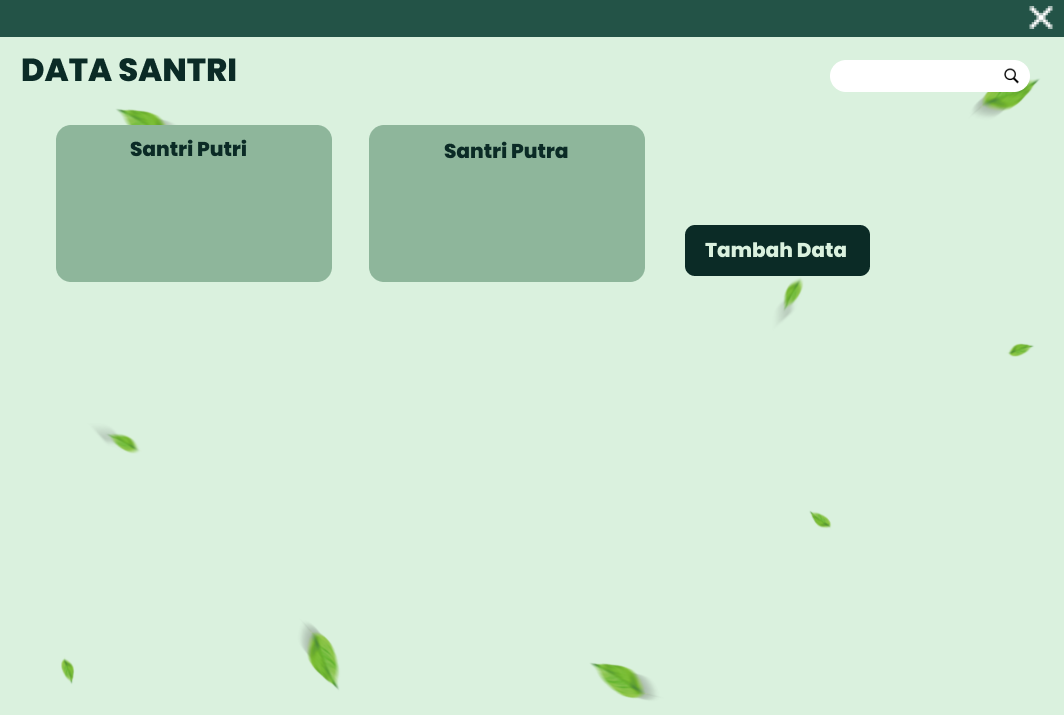
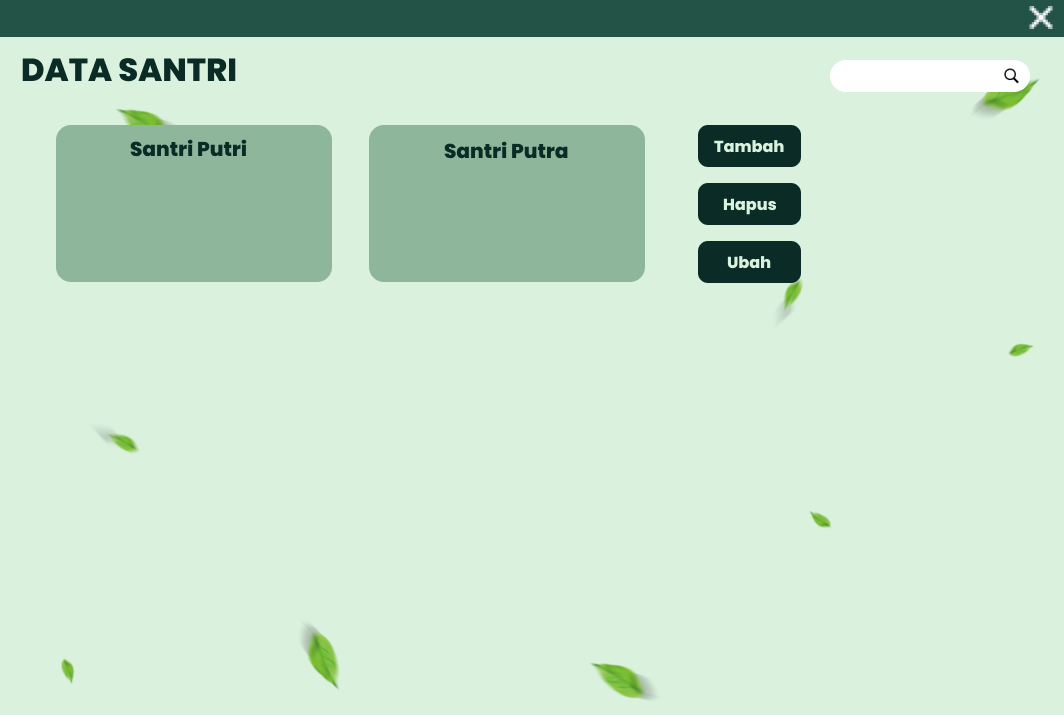
cialinSimastren

Changed region(s): [[0.6203, 0.1538, 0.8374, 0.4]]

diff --git a/src/JFrame/DataSantri.java b/src/JFrame/DataSantri.java
@@ -3,6 +3,10 @@
  * Click nbfs://nbhost/SystemFileSystem/Templates/GUIForms/JFrame.java to edit this template
  */
 package JFrame;
+//import kelas.user;
+import javax.swing.table.DefaultTableModel;
+import java.sql.ResultSet;
+import java.sql.SQLException;
 
 /**
  *
@@ -26,23 +30,20 @@ public class DataSantri extends javax.swing.JFrame {
     // <editor-fold defaultstate="collapsed" desc="Generated Code">//GEN-BEGIN:initComponents
     private void initComponents() {
 
-        santri_putra = new javax.swing.JLabel();
-        santri_putri = new javax.swing.JLabel();
         jScrollPane1 = new javax.swing.JScrollPane();
         Nama = new javax.swing.JTable();
-        Baground = new javax.swing.JLabel();
         Pencarian = new javax.swing.JTextField();
+        jLabel3 = new javax.swing.JLabel();
+        jLabel1 = new javax.swing.JLabel();
+        Baground = new javax.swing.JLabel();
+        btnUbah = new javax.swing.JButton();
+        btnHapus = new javax.swing.JButton();
+        btnTambah = new javax.swing.JButton();
+        santri_putra = new javax.swing.JLabel();
+        santri_putri = new javax.swing.JLabel();
 
         setDefaultCloseOperation(javax.swing.WindowConstants.EXIT_ON_CLOSE);
         getContentPane().setLayout(new org.netbeans.lib.awtextra.AbsoluteLayout());
-
-        santri_putra.setFont(new java.awt.Font("Segoe UI", 1, 64)); // NOI18N
-        santri_putra.setText("50");
-        getContentPane().add(santri_putra, new org.netbeans.lib.awtextra.AbsoluteConstraints(470, 170, 80, 90));
-
-        santri_putri.setFont(new java.awt.Font("Segoe UI", 1, 64)); // NOI18N
-        santri_putri.setText("50");
-        getContentPane().add(santri_putri, new org.netbeans.lib.awtextra.AbsoluteConstraints(160, 170, 80, 90));
 
         Nama.setModel(new javax.swing.table.DefaultTableModel(
             new Object [][] {
@@ -57,17 +58,54 @@ public class DataSantri extends javax.swing.JFrame {
         ));
         jScrollPane1.setViewportView(Nama);
 
-        getContentPane().add(jScrollPane1, new org.netbeans.lib.awtextra.AbsoluteConstraints(20, 300, 860, 410));
+        getContentPane().add(jScrollPane1, new org.netbeans.lib.awtextra.AbsoluteConstraints(40, 310, 970, 380));
+
+        Pencarian.setFont(new java.awt.Font("Segoe UI Semibold", 0, 14)); // NOI18N
+        Pencarian.setBorder(null);
+        Pencarian.setOpaque(true);
+        getContentPane().add(Pencarian, new org.netbeans.lib.awtextra.AbsoluteConstraints(840, 60, 160, 30));
+
+        jLabel3.setFont(new java.awt.Font("Segoe UI", 1, 36)); // NOI18N
+        jLabel3.setHorizontalAlignment(javax.swing.SwingConstants.CENTER);
+        jLabel3.setText("50");
+        getContentPane().add(jLabel3, new org.netbeans.lib.awtextra.AbsoluteConstraints(470, 190, 80, 50));
+
+        jLabel1.setFont(new java.awt.Font("Segoe UI", 1, 36)); // NOI18N
+        jLabel1.setHorizontalAlignment(javax.swing.SwingConstants.CENTER);
+        jLabel1.setText("50");
+        getContentPane().add(jLabel1, new org.netbeans.lib.awtextra.AbsoluteConstraints(150, 180, 80, 50));
 
         Baground.setIcon(new javax.swing.ImageIcon(getClass().getResource("/Image/Data_Santri_Mentahan.png"))); // NOI18N
-        Baground.setText("jLabel1");
-        getContentPane().add(Baground, new org.netbeans.lib.awtextra.AbsoluteConstraints(0, 0, 1070, 720));
+        getContentPane().add(Baground, new org.netbeans.lib.awtextra.AbsoluteConstraints(0, 0, 1060, 710));
+        getContentPane().add(btnUbah, new org.netbeans.lib.awtextra.AbsoluteConstraints(700, 240, 100, 40));
+        getContentPane().add(btnHapus, new org.netbeans.lib.awtextra.AbsoluteConstraints(700, 180, 100, 40));
 
-        Pencarian.setText("jTextField1");
-        getContentPane().add(Pencarian, new org.netbeans.lib.awtextra.AbsoluteConstraints(830, 60, 200, 40));
+        btnTambah.addActionListener(new java.awt.event.ActionListener() {
+            public void actionPerformed(java.awt.event.ActionEvent evt) {
+                btnTambahActionPerformed(evt);
+            }
+        });
+        getContentPane().add(btnTambah, new org.netbeans.lib.awtextra.AbsoluteConstraints(700, 120, 100, 40));
+
+        santri_putra.setFont(new java.awt.Font("Segoe UI", 1, 64)); // NOI18N
+        santri_putra.setText("50");
+        getContentPane().add(santri_putra, new org.netbeans.lib.awtextra.AbsoluteConstraints(470, 170, 80, 90));
+
+        santri_putri.setFont(new java.awt.Font("Segoe UI", 1, 64)); // NOI18N
+        santri_putri.setText("50");
+        getContentPane().add(santri_putri, new org.netbeans.lib.awtextra.AbsoluteConstraints(160, 170, 80, 90));
 
         pack();
     }// </editor-fold>//GEN-END:initComponents
+
+    private void btnTambahActionPerformed(java.awt.event.ActionEvent evt) {//GEN-FIRST:event_btnTambahActionPerformed
+        // TODO add your handling code here:
+        try {
+            String sql = "INSERT INTO santri (nama, alamat, jenis) VALUES (?,?,?)";
+            
+        } catch (Exception e) {
+        }
+    }//GEN-LAST:event_btnTambahActionPerformed
 
     /**
      * @param args the command line arguments
@@ -108,6 +146,11 @@ public class DataSantri extends javax.swing.JFrame {
     private javax.swing.JLabel Baground;
     private javax.swing.JTable Nama;
     private javax.swing.JTextField Pencarian;
+    private javax.swing.JButton btnHapus;
+    private javax.swing.JButton btnTambah;
+    private javax.swing.JButton btnUbah;
+    private javax.swing.JLabel jLabel1;
+    private javax.swing.JLabel jLabel3;
     private javax.swing.JScrollPane jScrollPane1;
     private javax.swing.JLabel santri_putra;
     private javax.swing.JLabel santri_putri;
